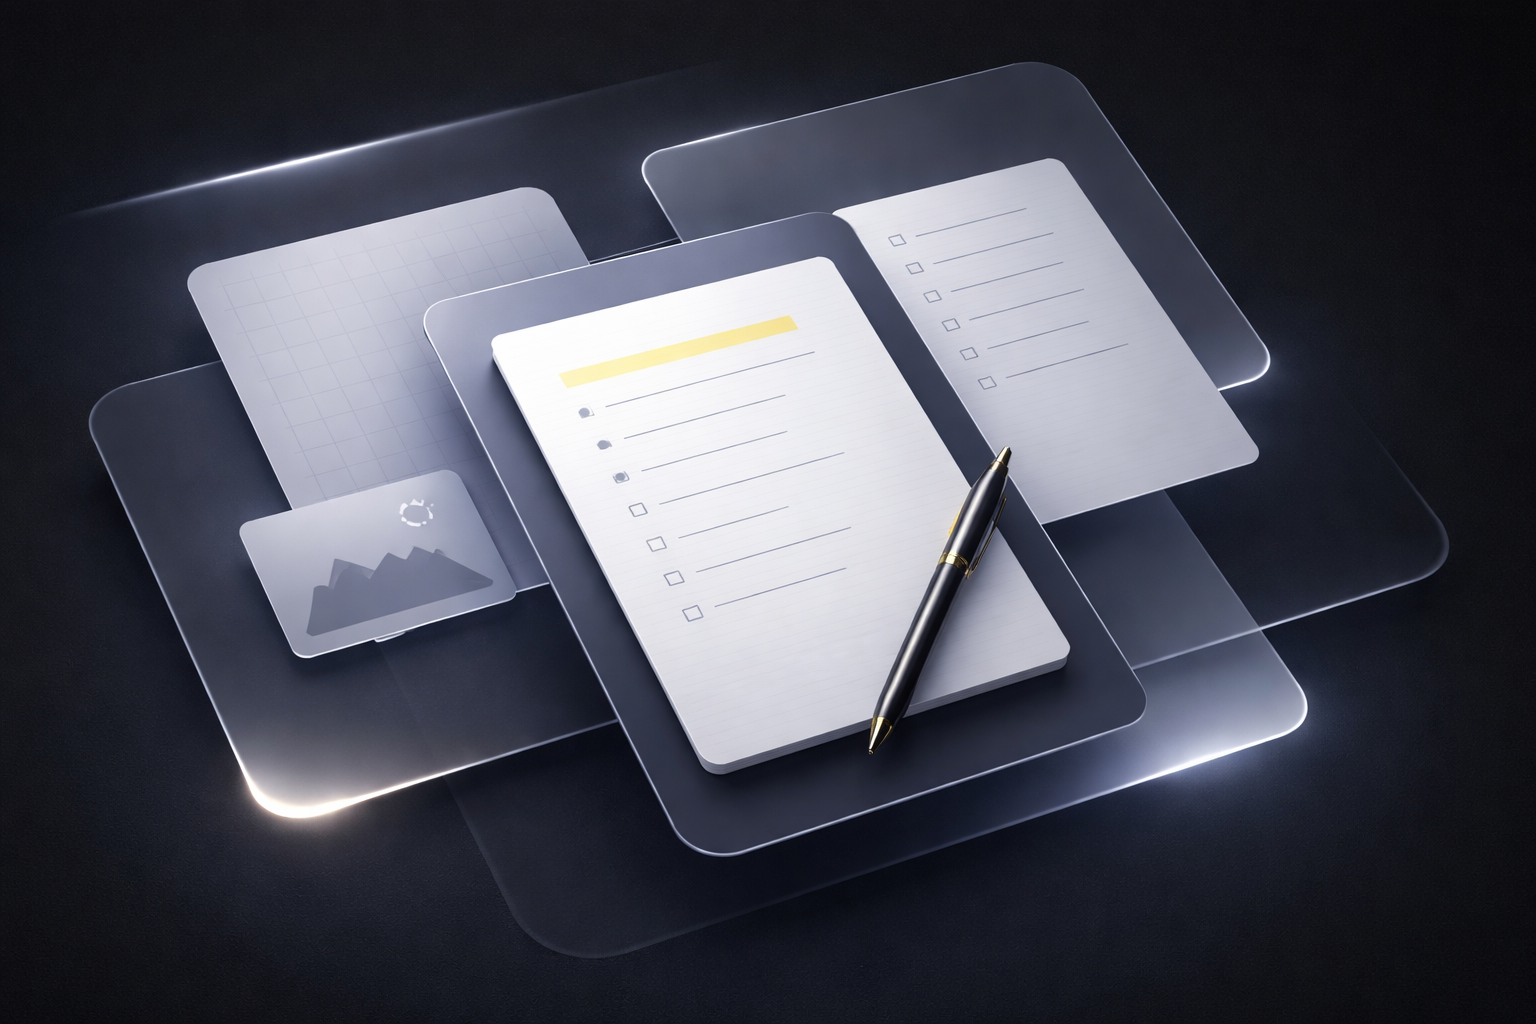
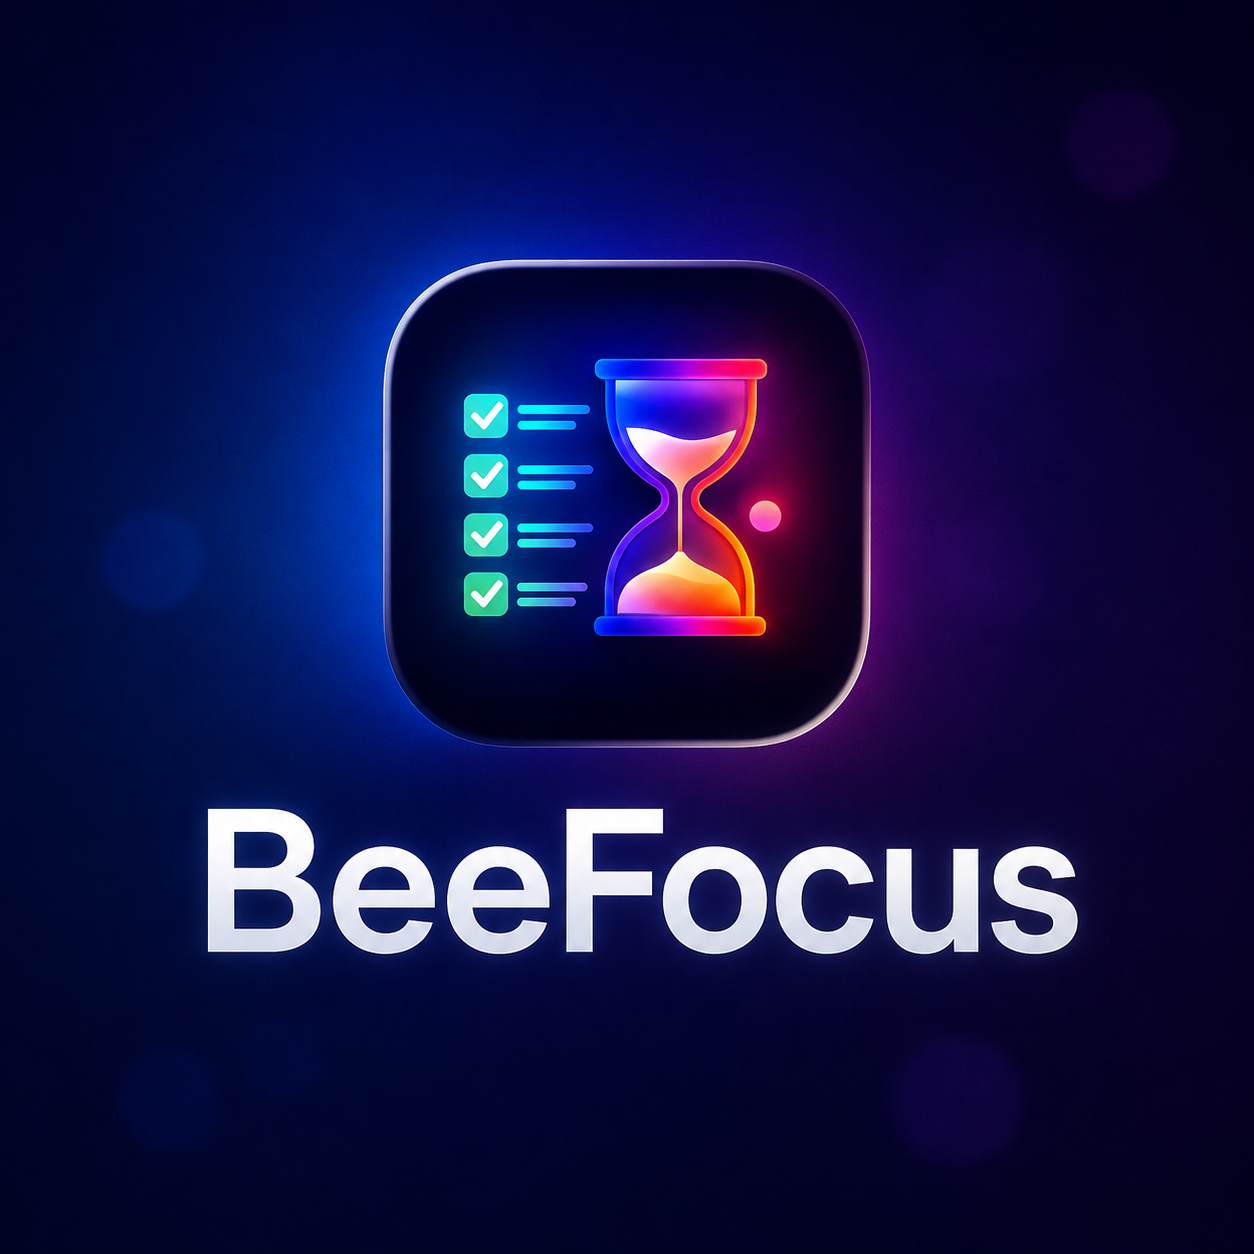
Clean up old assets and update homepage project images

diff --git a/index.html b/index.html
@@ -40,11 +40,7 @@
     <div class="container header-inner">
       <a class="brand" href="#top" aria-label="Torben Lehneke Startseite">
         <span class="brand-logo-wrap">
-          <img
-            class="brand-logo"
-            src="assets/logo-cropped.png"
-            alt="Torben Lehneke Logo"
-          />
+          <img class="brand-logo" src="assets/logo-cropped.png" alt="Torben Lehneke Logo" />
         </span>
       </a>
 
@@ -66,13 +62,8 @@
       </nav>
 
       <div class="header-actions">
-        <button
-          class="icon-btn lang-btn"
-          id="langToggle"
-          type="button"
-          aria-label="Sprache wechseln"
-          aria-pressed="false"
-        >
+        <button class="icon-btn lang-btn" id="langToggle" type="button" aria-label="Sprache wechseln"
+          aria-pressed="false">
           DE
         </button>
         <button class="icon-btn" id="themeToggle" type="button" aria-label="Dark Mode umschalten" aria-pressed="false">
@@ -375,12 +366,12 @@
           </p>
         </div>
 
-        <div class="projects-grid reveal" aria-label="Projektübersicht">
+        <div class="projects-grid" aria-label="Projektübersicht">
           <!-- BeeFocus -->
           <a class="project" href="apps/beefocus/index.html" data-tags="web" aria-label="Projekt: BeeFocus App-Website">
-            <div class="project-thumb js-parallax">
-              <img src="apps/beefocus/assets/BeeFocus.png" alt="Screenshot der BeeFocus Projektseite" loading="lazy"
-                decoding="async" />
+            <div class="project-thumb project-thumb-center">
+              <img src="assets/image 14.36.43.png" alt="Screenshot der BeeFocus Projektseite" loading="lazy"
+                decoding="async" width="1600" height="1000" />
             </div>
             <div class="project-meta">
               <strong>BeeFocus</strong>
@@ -389,10 +380,11 @@
           </a>
 
           <!-- Cmdfind -->
-          <a class="project" href="apps/cmdfind/index.html" data-tags="web cli" aria-label="Projekt: Cmdfind Downloadseite">
-            <div class="project-thumb js-parallax">
+          <a class="project" href="apps/cmdfind/index.html" data-tags="web cli"
+            aria-label="Projekt: Cmdfind Downloadseite">
+            <div class="project-thumb">
               <img src="apps/cmdfind/assets/cmdfind.png" alt="Screenshot der Cmdfind Projektseite" loading="lazy"
-                decoding="async" />
+                decoding="async" width="1536" height="1024" />
             </div>
             <div class="project-meta">
               <strong>Cmdfind</strong>
@@ -401,10 +393,11 @@
           </a>
 
           <!-- DeskPilot -->
-          <a class="project" href="apps/deskpilot/index.html" data-tags="web app" aria-label="Projekt: DeskPilot App-Website">
-            <div class="project-thumb js-parallax">
-              <img src="apps/deskpilot/assets/card.png" alt="Screenshot der DeskPilot Projektseite" loading="lazy"
-                decoding="async" />
+          <a class="project" href="apps/deskpilot/index.html" data-tags="web app"
+            aria-label="Projekt: DeskPilot App-Website">
+            <div class="project-thumb">
+              <img src="apps/deskpilot/assets/deskpilot-hero.png" alt="Screenshot der DeskPilot Projektseite"
+                loading="lazy" decoding="async" width="2752" height="2064" />
             </div>
             <div class="project-meta">
               <strong>DeskPilot</strong>
@@ -559,12 +552,7 @@
             <form id="contactForm" action="https://formspree.io/f/xojnrvlw" method="POST" novalidate>
               <div class="honeypot-field" aria-hidden="true">
                 <label for="website">Website</label>
-                <input
-                  id="website"
-                  name="website"
-                  type="text"
-                  tabindex="-1"
-                  autocomplete="off" />
+                <input id="website" name="website" type="text" tabindex="-1" autocomplete="off" />
               </div>
 
               <div class="field">
@@ -661,11 +649,7 @@
       <div class="footer-brand">
         <div class="brand-line">
           <span class="brand-logo-wrap brand-logo-wrap-footer">
-            <img
-              class="brand-logo brand-logo-footer"
-              src="assets/logo-footer-cropped.png"
-              alt="Torben Lehneke Logo"
-            />
+            <img class="brand-logo brand-logo-footer" src="assets/logo-footer-cropped.png" alt="Torben Lehneke Logo" />
           </span>
         </div>
         <p class="muted">
@@ -681,26 +665,16 @@
 
       <div class="footer-social" aria-label="Social Media">
         <p class="footer-block-title">Social Media</p>
-        <a
-          class="social"
-          href="https://www.instagram.com/torben.lehneke_/"
-          aria-label="Instagram Profil von Torben Lehneke"
-          target="_blank"
-          rel="noopener noreferrer"
-        >
+        <a class="social" href="https://www.instagram.com/torben.lehneke_/"
+          aria-label="Instagram Profil von Torben Lehneke" target="_blank" rel="noopener noreferrer">
           <svg viewBox="0 0 24 24" width="20" height="20" fill="none" stroke="currentColor" stroke-width="2">
             <rect x="3" y="3" width="18" height="18" rx="5"></rect>
             <path d="M16 11.37a4 4 0 1 1-7.74 1.26A4 4 0 0 1 16 11.37Z"></path>
             <path d="M17.5 6.5h.01"></path>
           </svg>
         </a>
-        <a
-          class="social"
-          href="https://www.linkedin.com/in/torben-lehneke-46a2b82b6"
-          aria-label="LinkedIn Profil von Torben Lehneke"
-          target="_blank"
-          rel="noopener noreferrer"
-        >
+        <a class="social" href="https://www.linkedin.com/in/torben-lehneke-46a2b82b6"
+          aria-label="LinkedIn Profil von Torben Lehneke" target="_blank" rel="noopener noreferrer">
           <svg viewBox="0 0 24 24" width="20" height="20" fill="none" stroke="currentColor" stroke-width="2">
             <path d="M16 8a6 6 0 0 1 6 6v7h-4v-7a2 2 0 0 0-2-2 2 2 0 0 0-2 2v7h-4V9h4v2"></path>
             <path d="M2 9h4v12H2z"></path>